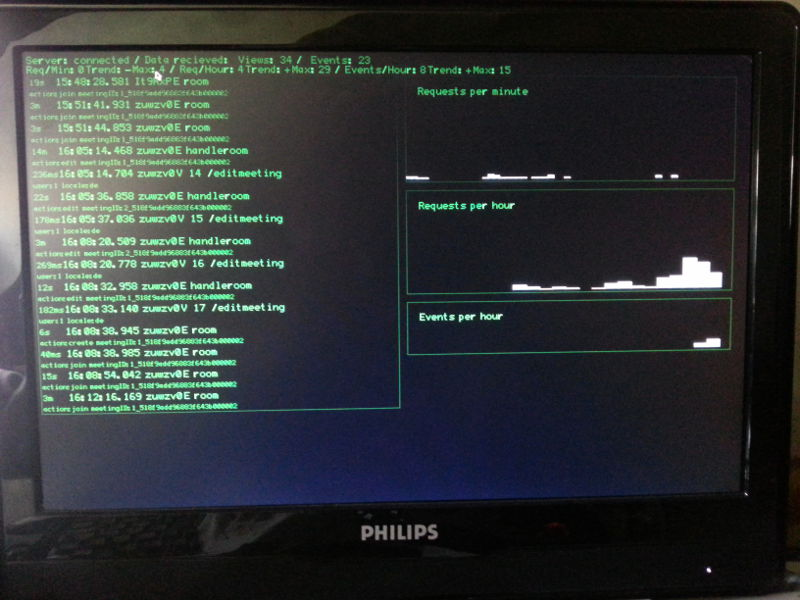
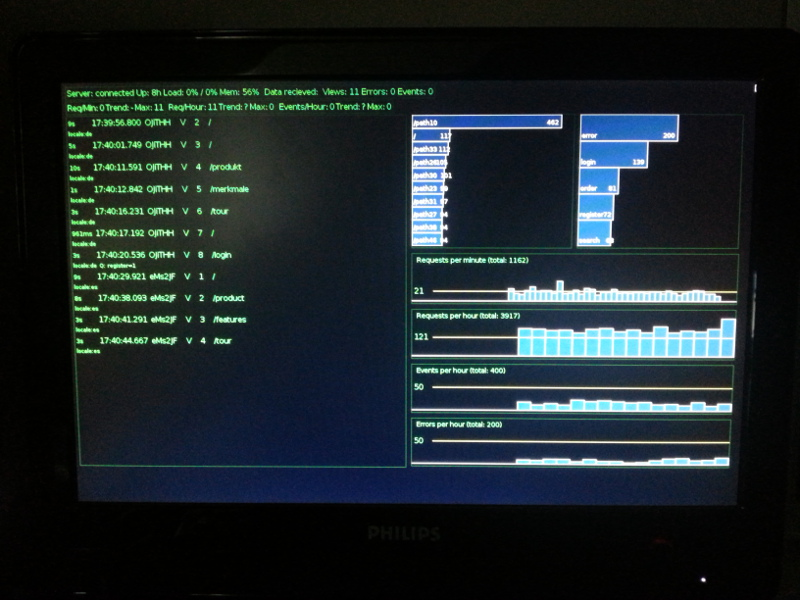
top view and events charts added to adnoce-server

diff --git a/lib/external/js/main.js b/lib/external/js/main.js
@@ -359,7 +359,7 @@ var EPHChart = function(opts, data_) {
   this.addValue = function(c) {
     if (data) {
       data.shift();
-      data.push({ time: (data[data.length-1].time)+1, value: c});      
+      data.push({ time: (data[data.length-1].time)+1, value: 0, originalValue: c});      
     }
     calc();
   }
@@ -392,9 +392,12 @@ var EPHChart = function(opts, data_) {
   var appendMiddleMark = function() {
     if (maxValue === 0) return false;
     var my = maxValue;
-    if (scaleFactor < 3) my = my / 2;
-    my = opts.height - my;
-    var midValueToShow = maxValueData / 2;
+    var midValueToShow = maxValueData / 2;    
+    if (scaleFactor < 3) {      
+      my = opts.height - (my / 2);     
+    } else {
+      my = opts.height - (my / scaleFactor);;   
+    }        
     if (my > (opts.height - 14)) { 
       midValueToShow = opts.height / 2;
       my = 50;    
@@ -451,43 +454,43 @@ var EPHChart = function(opts, data_) {
   }
   this.create = create;
 
-  var calc = function(dataSet, initalData_) {
+  var calc = function(dataSet_, initalData_) {
+    //@TODO: This can be done faster
     if (!initalData_) initalData_ = data;
-    if (dataSet) {
-      for (var d in dataSet) {
+    if (dataSet_) {
+      for (var d in dataSet_) {
         var t = null;
         switch (opts.startBar) {
           case 'currentMinute':
-            t = moment(dataSet[d].timestamp).minute();
+            t = moment(dataSet_[d].timestamp).minute();
             break;
           default:
-            t = moment(dataSet[d].timestamp).hour();
+            t = moment(dataSet_[d].timestamp).hour();
         }            
-        initalData_[t].value++;              
+        initalData_[t].originalValue++;              
       }         
     }
     maxValueData = _.max(initalData_, function(dataSet) {
-      return dataSet.value;
-    }).value;    
+      return dataSet.originalValue;
+    }).originalValue;    
     maxValue = maxValueData; 
     scaleFactor = 1;
     while (maxValue > opts.height) {
-      scaleFactor++;
-      maxValue = maxValue / scaleFactor;                  
-    }         
-    if (scaleFactor > 1) {
+      scaleFactor = scaleFactor + 1;
+      maxValue = maxValueData / scaleFactor;                  
+    }
+    if (scaleFactor > 0) {
       for (var i = 0, ix = initalData_.length; i < ix; ++i) {
-        if (initalData_[i].value > 0) {
-          var old = initalData_[i].value;
-          initalData_[i].value = Math.round(initalData_[i].value / scaleFactor);                
+        if (initalData_[i].originalValue > 0) {          
+          initalData_[i].value = Math.round(initalData_[i].originalValue / scaleFactor);                
         }
       }  
     }              
-    if (dataSet) {  
+    if (dataSet_) {  
       var fillNew = bars - startBar;              
       var testy1 = initalData_.slice(0, startBar), testy2 = [];    
       for (var i =  -bars, ix = -startBar; i < ix; ++i) {      
-        testy2.push({ time: i, value: 0 });
+        testy2.push({ time: i, originalValue: 0, value: 0 });
       }     
       setData(testy2.reverse().concat(testy1)); 
     } else {
@@ -506,7 +509,7 @@ var EPHChart = function(opts, data_) {
       var initalData = [];
       datalength = rd.data.length;
       for (var i = 0, ix = (bars - 1); i <= ix; ++i) {
-        initalData[i] = { time: i, value: 0 }
+        initalData[i] = { time: i, originalValue: 0, value: 0 }
       }                           
       calc(rd.data, initalData); 
       if (keepRawData) setRawData(rd.data);                  
@@ -530,3 +533,200 @@ var EPHChart = function(opts, data_) {
     });
   }
 }
+var TopViewChart = function(opts, data_) {  
+  //@TODO: Refactor to backbone     
+  var x = d3.scale.linear()
+      .domain([0, 1])
+      .range([0, opts.width - 13]);
+
+  var y = d3.scale.linear()
+      .domain([0, opts.height])
+      .rangeRound([0, opts.height]);
+
+  var data = data;
+  var maxValue = 0;
+  var maxValueData = 0;
+  var chart = null;
+  var scaleFactor = 1;  
+  var bars = opts.bars || 5;  
+  var mapKey = opts.mapKey || null;
+  var keyNormalizeRegExp = opts.keyNormalizeRegExp || null;
+  var refreshInterval = opts.refreshInterval || 900000;
+
+  this.setChart = function(chart_) {
+    chart = _chart;
+  }
+
+  this.getChart = function() {
+    return chart;
+  }
+
+  this.getData = function() {
+    return data;
+  }
+
+  var setData = function(data_) {
+    data = data_;
+  }
+  this.setData = setData;  
+
+  var redraw = function(data_) {
+    if (!data_) data_ = data; 
+    else setData(data_);   
+    //@TODO: Transistion redraw
+    chart.selectAll('g.datagroup').remove();     
+    create(calc(data_));
+  }
+  this.redraw = redraw;
+
+  var refreshIntervalTimer = null;
+  var updateRefresh = 5000;
+  var singleTimerVal = (refreshInterval / updateRefresh);  
+  var actualTimerStep = singleTimerVal;
+  var singleTimerHeight = (opts.height - 2) / singleTimerVal; 
+  var refreshTimerRect = null;
+  var timerRedraw = function() {
+    actualTimerStep = --actualTimerStep;
+    if (actualTimerStep < 1) actualTimerStep = singleTimerVal;  
+    var newH = actualTimerStep * singleTimerHeight;
+    refreshTimerRect.transition().duration(1000).attr('y', opts.height  - (singleTimerHeight * actualTimerStep)).attr('height', newH);    
+    return actualTimerStep;
+  }
+  this.timerRedraw = timerRedraw;
+
+  var refreshBars = function() {
+    var t = timerRedraw();
+    if (t === 1) {
+      window.clearInterval(refreshIntervalTimer);
+      refreshTimerRect.transition().duration(1000).attr('y', opts.height).attr('height', 0); 
+      loadData(function() {
+        refreshIntervalTimer = window.setInterval(refreshBars, updateRefresh);
+      });
+    }
+  }  
+  this.refreshBars = refreshBars;
+  
+  var create = function(data_) {     
+    if (!data_) return false;
+    $(opts.el).children('span').remove();
+    
+    if (chart === null) chart = d3.select(opts.el).append('svg')
+      .attr('class', 'chart');
+    
+    chart.attr('width', (opts.width))
+      .attr('height', opts.height);               
+    var barHeight = opts.height / bars;
+    var textCenterYHelper = ((barHeight +2) - 16) / 2;
+    chart.selectAll('rect.datagroup')
+      .data(data_)
+    .enter().append('g')
+      .attr('data-key', function(d) { return d.key; })
+      .attr('data-value', function(d) { return (d.count * scaleFactor); })
+      .attr('class', 'datagroup')      
+      .append('rect')
+        .attr('x', 0)
+        .attr('y', function(d, i) { return (i * barHeight); })
+        .attr('width', function(d, i) { return y(d.count); })
+        .attr('height', barHeight);   
+    chart.selectAll('g')
+      .append('svg:text')
+        .attr('x', 3)
+        .attr('y', function(d, i) { return (i * barHeight) + ((barHeight / 2)) + textCenterYHelper; })
+        .style('fill', '#FFF')
+        .style('font-size', '0.8em')
+        .attr('class', function(d, i) { return 'valuetext' + i; })
+        .text(function(d, i) { return d.key;});
+    chart.selectAll('g')
+      .append('svg:text')
+        .attr('x', function(d, i) { 
+          var ab = 20; if (d.count>99) ab = 30; else if (d.count > 999) ab = 35; 
+          var bp = y(d.count-ab), tl = $('.valuetext' + i).width() + ab; 
+          if (bp >= tl) return bp; else return tl; 
+        })
+        .attr('y', function(d, i) { return (i * barHeight) + ((barHeight / 2)) + textCenterYHelper; })
+        .style('fill', '#FFF')
+        .style('font-size', '0.8em')
+        .text(function(d, i) { return  Math.round(d.count *scaleFactor) });
+    if (refreshTimerRect === null) {
+      refreshTimerRect = chart.append('rect')
+        .attr('x', opts.width - 10)
+        .attr('y', 0)
+        .attr('width', 10)
+        .attr('height', opts.height - 2)
+        .style('fill', '#00CC00')
+        .attr('class', 'timerrect');
+    }
+  }
+  this.create = create;
+
+  var calc = function(dataSet_) {
+    var topMap = {}; 
+    var topArr = [];
+    _.map(dataSet_, function(v, k) { 
+      if (!topMap[v[mapKey]]) topMap[v[mapKey]] = 1; else {
+        topMap[v[mapKey]]++;
+      }
+      return true;
+    });
+    maxValueData = _.max(topMap, function(d) {      
+      return d;
+    });
+    maxValue = maxValueData; 
+    scaleFactor = 1;
+    while (maxValue > (opts.width - 13)) {
+      scaleFactor = scaleFactor + .75;      
+      maxValue = maxValueData / scaleFactor;           
+    }
+    if (scaleFactor > 1) {
+      for (var i in topMap) {
+        topMap[i] = topMap[i] / scaleFactor;    
+      } 
+    } 
+    var regExpErg = null;
+    for (var t in topMap) {
+      var k = t;
+      if (keyNormalizeRegExp !== null) {
+        regExpErg = keyNormalizeRegExp.exec(k);
+        if (regExpErg === null) continue;
+        else {
+          k = regExpErg[regExpErg.length - 1];
+        }
+      }
+      topArr.push({ key: k, count: topMap[t]});
+    }
+    topArr = topArr.sort(function(a, b) {           
+      return (parseFloat(b.count) - parseFloat(a.count));
+    });
+    topArr = topArr.slice(0,bars);    
+    return topArr;
+  }
+  var loadData = function(callback) {
+    var reqparams  = {'timestamp' : {'$gte' : moment().startOf('day').utc().valueOf() }, 'sort' : {'timestamp' : 1}};        
+    if (opts.requestParameters) {
+      for (var o in opts.requestParameters) {
+        reqparams[o] = opts.requestParameters[o];
+      }
+    }        
+    $.getJSON(opts.requestUrl, reqparams).success(function(rd) { 
+      if (chart === null) create(calc(rd.data)); else redraw(rd.data);      
+      setData(rd.data);
+      if (typeof(callback) === 'function') callback(null);
+    });
+  }
+  this.loadData = loadData;
+  this.init = function(data_, callback) { 
+    if (!data_) {
+      loadData(function() {
+        if (typeof(callback) === 'function') callback(null);  
+        if (refreshIntervalTimer === null) refreshIntervalTimer = window.setInterval(refreshBars, updateRefresh);
+      });      
+    } else {  
+      create(calc(data_));
+      setData(data_);
+      if (typeof(callback) === 'function') callback(null);
+      if (refreshIntervalTimer === null) refreshIntervalTimer = window.setInterval(refreshBars, updateRefresh);
+    }
+  }
+}
+
+

diff --git a/lib/external/css/main.css b/lib/external/css/main.css
@@ -15,16 +15,22 @@ body {
   margin-right: 0.2em;
 }
 .charts {       
-  width: 47%;
-  min-height: 105px;
-  margin-left: 1em;
-  margin-bottom: 1em;
+  width: 48%;
+  min-height: 105px;  
+  margin-bottom: 0.7em;
+  float: left;
+}
+.charts2 {       
+  width: 23.5%;
+  min-height: 105px;  
+  margin-bottom: 0.7em;
   float: left;
 }
 #log {
   width: 50%;       
   height: 85%;
-  min-height: 610px; 
+  min-height: 610px;
+  margin-right: 0.7em; 
   float: left;
 }
 .loglinecontentbot {
@@ -62,6 +68,6 @@ body {
   cursor: pointer;
 }
 .chart rect {
-  fill: steelblue;
+  fill: rgb(10, 46, 78);
   stroke: white;
 }
